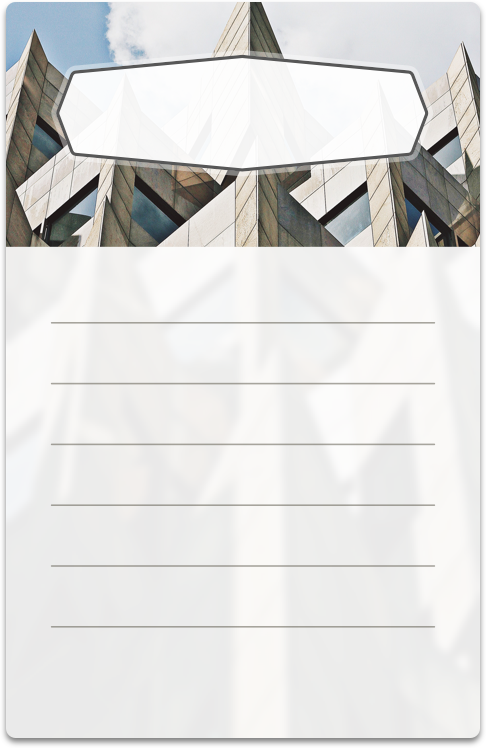
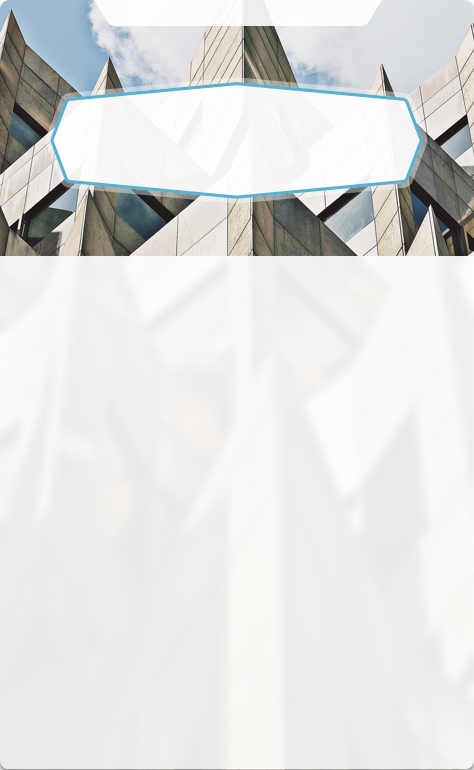
2017.6.12 笔记卡

diff --git a/assetsFund/component/course/GetReword.js b/assetsFund/component/course/GetReword.js
@@ -10,7 +10,7 @@ const WxConfig = require('../../WxConfig');
 const Util = require('../../Util');
 var OnFire =require('onfire.js');
 const convertHtmlToBase64 = require('../../ImageShare')
-
+const courseInfo = require('../../CourseInfo')
 const GetReward = React.createClass({
     getInitialState: function() {
 
@@ -19,9 +19,9 @@ const GetReward = React.createClass({
             type: '',
             userInfo: {},
             senior: {
-                courseId: 1,
+                courseId: 10,
                 name: '长投学员',
-                rank: 214,
+                rank: 0,
                 headImg: '',
                 userId: '',
             },
@@ -32,7 +32,8 @@ const GetReward = React.createClass({
             isNoteCardDomShow: true,
             freeChance: false,//是否可以分享
             isPay: false,
-            freeRewardLink: false//是否是试听链接
+            freeRewardLink: false,//是否是试听链接
+            noteText: ''
         };
     },
 
@@ -45,6 +46,11 @@ const GetReward = React.createClass({
         let isMine = this.props.params.mine;
         //下线查看别人的成就卡
         if (this.state.senior.courseId && !isMine) {
+            Material.getNoteCardText(this.state.senior.courseId).done((data) => {
+                this.setState({
+                    noteText: data.message
+                })
+            })
             userId = Util.getUrlPara('ictchannel');
             if (User.getUserInfo().userId) {
                 Material.postData('下线_查看_getReward');
@@ -71,6 +77,11 @@ const GetReward = React.createClass({
             userId = User.getUserInfo().userId;
             Material.postData('上线_进入_getReward');
             let courseId = this.props.params.courseId;
+            Material.getNoteCardText(courseId).done((data) => {
+                this.setState({
+                    noteText: data.message
+                })
+            })
             this.setState({type: 'mine', userInfo: User.getUserInfo()});
             //获得自己的课程排名
             Material.courseFinishRank(courseId,userId).done((data) =>{
@@ -133,17 +144,29 @@ const GetReward = React.createClass({
         const element = document.getElementsByClassName('reward-pic')[0]
         const width = element.offsetWidth
         const height = element.offsetHeight
-        convertHtmlToBase64(element, height, width).then(
-            base64 => {
-                this.setState({
-                    shareImgUrl: base64,
-                    isNoteCardDomShow: false
+        const courseId = Util.getUrlPara('courseId') || this.props.params.courseId
+        const userId = Util.getUrlPara('ictchannel') || this.props.params.userId
+        Material.getNoteCardText(courseId).done((data) => {
+            this.setState({
+                noteText: data.message
+            }, () => {
+                Material.courseFinishRank(courseId,userId).done(data => {
+                    this.state.senior.rank = data
+                    convertHtmlToBase64(element, height, width).then(
+                        base64 => {
+                            this.setState({
+                                shareImgUrl: base64,
+                                isNoteCardDomShow: false
+                            })
+                        }
+                    )
                 })
-            }
-        )
+
+            })
+        })
+
     },
     componentWillUnmount () {
-        console.log('didUnMount')
         let senior = this.state.senior;
         let shareTitle = '快和我一起参加财商训练营吧',
             link = Util.getShareLink(),
@@ -160,11 +183,16 @@ const GetReward = React.createClass({
         let senior = this.state.senior;
         let shareTitle;
         let link = Util.getShareLink();
+        let course = courseInfo.find(
+            course => {
+                return course.id === parseInt(senior.courseId)
+            }
+        )
         let desc;
         switch (type) {
             //分享当日免费课(高级分享)
             case 'freeChance':
-                shareTitle = '我是第'+ this.state.senior.rank+'名完成'+'xxx' + '课的人，dialog按时完成课程的奖励';
+                shareTitle = '我是第'+ this.state.senior.rank+'名完成'+ course.title + '课的人，dialog按时完成课程的奖励';
                 desc = 'dialog这是赠送的免费课';
                 link = link + '&goPath=' + '/getReward/' + senior.courseId;
                 link = link + '&courseId=' + senior.courseId;
@@ -176,7 +204,7 @@ const GetReward = React.createClass({
             //普通分享
             case 'share':
                 senior = this.state.senior;
-                shareTitle = '我是第'+ this.state.senior.rank+'名完成'+'xxx' + '课的人，快来看看我的成就卡吧！';
+                shareTitle = '我是第'+ this.state.senior.rank+'名完成'+ course.title + '课的人，快来看看我的成就卡吧！';
                 desc = '快比比谁的财商更高吧?';
                 link = link + '&goPath=' + '/getReward/' + senior.courseId;
                 link = link + '&courseId=' + senior.courseId;
@@ -270,13 +298,21 @@ const GetReward = React.createClass({
         )
     },
     renderShareCard () {
+        const text = this.state.noteText
+        const textArr = text ? text.split('#') : ''
+        const content = textArr ? textArr[1].replace(/\r\n/g, '<br>') : ''
+        let course = courseInfo.find(
+            course => {
+                return course.id === parseInt(senior.courseId)
+            }
+        )
         return (
             <div className="reward-pic" style={{backgroundImage:"url('./assetsFund/image/course/noteCard.png')"}}>
-                <p>课程名称</p>
-                <p>基金定投课基金定投课</p>
-                <p>基金定投课基金定投课</p>
-                <p>基金定投课基金定投课</p>
-                <div id="reward-qrcode" className="reward-qrcode-img"></div>
+                <p className="note-card-rank">恭喜你是第{this.state.senior.rank}位完成课程的学员</p>
+                <p className="note-card-header">-{course.cardTitle}-</p>
+                <p className="note-card-content-title">{textArr && textArr[0]}</p>
+                <div className="note-card-text" dangerouslySetInnerHTML={{__html:content || ''}}></div>
+                <div className="share-qrcode"><img src="./assetsFund/image/course/shareqrcode.png" alt=""/></div>
             </div>
         )
     },
@@ -290,8 +326,8 @@ const GetReward = React.createClass({
         const isGetLesson = freeRewardLink && !isPay && type === 'other' && friendInfo.length < 3
         const isGetFree = freeRewardLink && !isPay && type === 'other' && friendInfo.length >= 3
         return (
-            <div><div className="reward-share-button" onClick={isGetLesson ? this.goSignUp : this.goCommand}>
-                {isGetLesson ? '获取免费试听' : isGetFree ? '名额满了，去看看免费课吧' : '我要分享'}
+            <div><div className="reward-share-button" onClick={type === 'mine' ? this.goCommand : this.goSignUp()}>
+                {type === 'mine' ? '我要分享' : isGetLesson ? '获取免费试听' : '去听听免费课吧'}
         </div></div>)
     },
 

diff --git a/assetsFund/css/components/course/getReward.scss b/assetsFund/css/components/course/getReward.scss
@@ -90,7 +90,7 @@
 
   .reward-pic, .reward-pic-img{
     width: px2rem(237);
-    height: px2rem(368);
+    height: px2rem(385);
     font-size: 13px;
     margin-bottom: px2rem(15);
   }
@@ -101,10 +101,46 @@
     top: 0;
     text-align: center;
     width: px2rem(474);
-    height: px2rem(736);
+    height: px2rem(770);
     font-size: 26px;
     background-size: cover;
     background-position: top center;
+    .share-qrcode{
+      text-align: center;
+      font-size: 0;
+      padding-top: px2rem(20);
+      img{
+        width: px2rem(70);
+        height: px2rem(70);
+      }
+    }
+    .note-card-rank{
+      line-height: px2rem(24);
+      font-size: px2rem(16);
+      color: #575757;
+      text-align: center;
+    }
+    .note-card-header{
+      font-size: px2rem(28);
+      line-height: px2rem(30);
+      color: #575757;
+      margin-top: px2rem(84);
+      text-align: center;
+    }
+    .note-card-content-title{
+      font-size: px2rem(20);
+      color: #575757;
+      line-height: px2rem(30);
+      text-align: center;
+    }
+    .note-card-text{
+      width: px2rem(364);
+      color: #575757;
+      text-align: left;
+      font-size: px2rem(18);
+      line-height: px2rem(23);
+      margin: px2rem(115) auto 0;
+    }
   }
   .share-user-list{
     margin: 0 auto;
@@ -116,11 +152,9 @@
     width: px2rem(237);
     height: px2rem(20);
     line-height: px2rem(20);
-    border-radius: px2rem(4);
     margin: 0 auto;
     margin-bottom: px2rem(15);
-    color: #575757;
-    background: #fff;
+    color: #fff;
   }
   .share-user-logo{
     float: left;

diff --git a/assetsFund/CourseInfo.js b/assetsFund/CourseInfo.js
@@ -1,0 +1,82 @@
+/**
+ * Created by zhanheng on 17/6/12.
+ */
+const courseInfo = [
+    {
+        id: 10,
+        title: '基金课0',
+        cardTitle: '学前班'
+    },
+    {
+        id: 11,
+        title: '基金课1',
+        cardTitle: '学前班'
+    },
+    {
+        id: 12,
+        title: '基金课2',
+        cardTitle: '学前班'
+    },
+    {
+        id: 13,
+        title: '基金课3',
+        cardTitle: '学前班'
+    },
+    {
+        id: 14,
+        title: '基金课4',
+        cardTitle: '学前班'
+    },
+    {
+        id: 15,
+        title: '基金课5',
+        cardTitle: '学前班'
+    },
+    {
+        id: 16,
+        title: '基金课6',
+        cardTitle: '学前班'
+    },
+    {
+        id: 17,
+        title: '基金课7',
+        cardTitle: '学前班'
+    },
+    {
+        id: 18,
+        title: '基金课8',
+        cardTitle: '学前班'
+    },
+    {
+        id: 19,
+        title: '基金课9',
+        cardTitle: '学前班'
+    },
+    {
+        id: 20,
+        title: '基金课10',
+        cardTitle: '学前班'
+    },
+    {
+        id: 21,
+        title: '基金课11',
+        cardTitle: '学前班'
+    },
+    {
+        id: 22,
+        title: '基金课12',
+        cardTitle: '学前班'
+    },
+    {
+        id: 23,
+        title: '基金课13',
+        cardTitle: '学前班'
+    },
+    {
+        id: 24,
+        title: '基金课14',
+        cardTitle: '学前班'
+    },
+]
+
+module.exports = courseInfo

diff --git a/assetsFund/Material.js b/assetsFund/Material.js
@@ -154,6 +154,28 @@ class Material {
         })
     }
 
+    /*获取笔记卡内容*/
+    static getNoteCardText (courseId) {
+        const User = require('./User')
+        const Util = require('./Util'),
+            apiUrl = Util.getAPIUrl('get_notes').replace('{dayId}', courseId);
+        return $.ajax(
+            {
+                url: apiUrl,
+                type: 'get',
+                cache: false,
+                contentType: 'application/json;charset=utf-8',
+                headers: {
+                    Accept: 'application/json'
+                },
+                beforeSend: (request)=>{
+                    request.setRequestHeader("X-iChangTou-Json-Api-Token", Util.getApiToken());
+                    request.setRequestHeader("X-iChangTou-Json-Api-User", User.getUserInfo().userId);
+                }
+            }
+        )
+    }
+
     /**
      * 获取fm信息
      * @param fmid

diff --git a/assetsFund/component/course/Audio.js b/assetsFund/component/course/Audio.js
@@ -56,7 +56,7 @@ const AudioBar = React.createClass({
             )
         } else if (Project === 'fundLesson') {
             return(
-                <p className={this.state.isPlaying ? 'title-bottom-fund':'title-top-fund'}><img src='http://source.ichangtou.com/file/ppt/lesson/d9a3e3f2/30/0/1/1.png' /></p>
+                <p className={this.state.isPlaying ? 'title-bottom-fund':'title-top-fund'}><img src={content.pptUrl} /></p>
             )
         }
         
